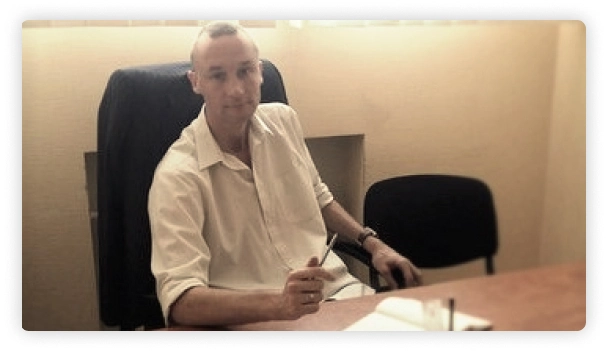
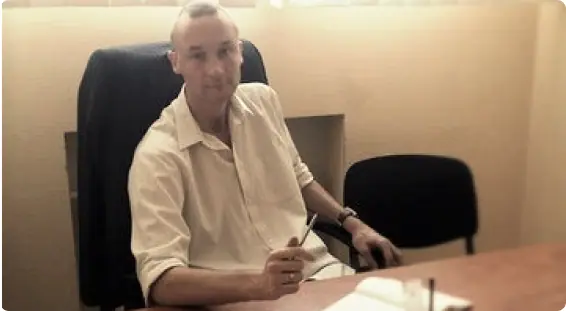
Пофиксил мелочи

diff --git a/css/main.min.css b/css/main.min.css
@@ -1,1 +1,1 @@
-:root{--main-text-color: #441a05;--color-white: #ffffff;--background-color: #003986;--hover-link-color: #ffe901;--hover-bg-color: rgba(68, 26, 5, 0.9);--cubic-bezier: cubic-bezier(0.4, 0, 0.2, 1);--about-bg-color: rgba(252, 183, 0, 0.75)}.copy{padding:10px 0;color:#fff;font-size:16px;margin-right:2px}.copy-ul{display:flex}.topNubex{display:flex;align-items:center;justify-content:center;position:fixed;right:15px;bottom:15px;width:60px;height:60px;background-color:var(--about-bg-color);fill:var(--main-text-color);transform:scale(1);transition:transform 200ms linear;border-radius:50%;cursor:pointer;z-index:2}#topNubex:hover{transform:scale(1.1)}.overlay{opacity:0;visibility:hidden;position:fixed;top:0;left:0;width:100%;height:100%;background-color:rgba(0,0,0,.5);z-index:20;transform:scale(0.7)}.modal{opacity:0;visibility:hidden;transform:translate(-50%, -50%) scale(0.2);width:100%;max-width:500px;position:fixed;top:50%;left:50%;z-index:30;box-shadow:0 3px 10px -0.5px rgba(0,0,0,.2);text-align:center;padding:30px;border-radius:3px;background-color:#fff;transition:.3s all}.modal.active{opacity:1;visibility:visible;transform:translate(-50%, -50%) scale(1);transition:transform 250ms linear}.overlay.active{opacity:1;visibility:visible;transform:scale(1);transition:opacity 250ms linear}.modal__cross{width:25px;height:25px;position:absolute;top:20px;right:20px;fill:#444;cursor:pointer}.first-header{position:relative;display:flex;justify-content:center;align-items:center;width:100%;background-color:var(--background-color)}.header-icon{fill:currentColor;margin-right:10px}.second-header{display:flex;justify-content:space-between}.header-flex{display:flex;margin-left:auto;margin-right:auto}.header-li{display:flex;padding:6px 0;color:var(--color-white)}.header-flex .header-li:not(:last-child){margin-right:30px}.header-flex a{display:flex;align-items:center;text-decoration:none;color:var(--color-white);font-weight:700;font-size:14px;line-height:1.15;letter-spacing:.035em;transition:color 250ms var(--cubic-bezier)}.mod-button:hover,.mod-button:focus{color:var(--hover-link-color)}.mod-button{display:flex;justify-content:center;align-items:center;position:absolute;cursor:pointer;top:8px;right:8px;border-radius:50%;width:30px;height:30px;padding:0;margin:0;border:1px solid rgba(0,0,0,.1);background-color:var(--color-white)}.button-link:nth-child(2) .sub-link{padding:46px 24px}.button-link:nth-child(3) .sub-link{margin-right:0}.serv-button{padding:62px 0px;max-width:450px;width:100%;color:var(--color-white);text-shadow:-4px 4px 2px rgba(0,0,0,.25);background:var(--main-text-color);box-shadow:-4px 4px 2px rgba(0,0,0,.25);border-radius:20px;transform:scale(1);transition:transform 250ms linear,box-shadow 250ms linear,background-color 250ms linear;cursor:pointer}.serv-button:hover,.serv-button:focus{background-color:var(--main-text-color);box-shadow:-8px 8px 6px rgba(0,0,0,.5);transform:scale(1.1)}.menu__button{z-index:10;display:flex;width:40px;height:40px;margin:10px 0px;padding:0;border:none;background:none}.menu__button:hover,.menu__button:focus{fill:var(--hover-text-color)}.menu__button.is-open .menu__icon{display:none}.menu__button .menu__icon--close{display:none}.menu__button.is-open .menu__icon--close{display:block}.header-flex a:hover,.header-flex a:focus{color:var(--hover-link-color)}.menu-items a:hover,.menu-items a:focus{transform:scale(1.1);box-shadow:-4px 4px 4px rgba(0,0,0,.5)}.menu{display:flex;align-items:center}.menu-link{font-weight:700;font-size:16px;line-height:18px;color:rgba(68,26,5,.75);text-shadow:0px 2px 6px rgba(0,0,0,.25);background:#fbf9f9;box-shadow:0px 4px 4px rgba(0,0,0,.25);border-radius:2px;padding:8px 36px;transform:scale(1);transition:transform 250ms var(--cubic-bezier),box-shadow 250ms var(--cubic-bezier)}.menu-box:not(:last-child){margin-right:30px}.menu-items{display:flex;align-items:center;justify-content:center}.sub-link{min-width:120px;font-weight:500;font-size:22px;line-height:1.14;text-align:center;color:#fff;text-shadow:0px 4px 4px rgba(0,0,0,.7);background-color:rgba(68,26,5,.97);border:1px solid rgba(0,0,0,.49);border-radius:20px;box-shadow:-4px 4px 2px rgba(0,0,0,.25);padding:41px 0px;margin-right:12px;cursor:pointer;transform:scale(1);transition:transform 250ms linear,box-shadow 250ms linear,background-color 250ms linear}.sub-link:hover,.sub-link:focus{background-color:var(--main-text-color);box-shadow:-8px 8px 6px rgba(0,0,0,.5);transform:scale(1.1)}.sub-flex{display:none}.mobile__menu{position:absolute;top:109px;right:0;display:flex;justify-content:center;width:100%;opacity:0;z-index:2;background-color:var(--color-white);padding:30px 15px;transform:translatey(-100%);transition:transform 150ms linear 100ms,opacity 200ms linear 100ms;pointer-events:none}.mobile__menu.is-open{pointer-events:all;opacity:1;transform:translatey(0%)}.mobile__menu-link{margin-bottom:15px}.mobile__menu-link:not(:last-child){border-right:1px solid;padding-right:10px}.mobile__menu-link:not(:first-child){padding-left:10px}.logo{display:flex}.logo-icon{margin:7px 0px;transform:rotatez(0deg);transition:transform 500ms var(--cubic-bezier)}.logo-icon:hover{transform:rotatez(360deg)}.logo-text{font-size:18px;line-height:1.15;color:var(--background-color);margin-left:11px;padding-bottom:15px;padding-top:15px;transform:scale(1);transition:transform 250ms linear}.logo-text:hover{transform:scale(1.1)}.logo-text-small{display:flex;font-size:16px;margin-left:10px;line-height:1.12;color:var(--background-color)}#contact{margin:0 0}body{font-family:"Roboto",sans-serif;font-style:normal;font-size:25px;font-weight:700;color:var(--main-text-color)}.visually-hidden{position:absolute;width:1px;height:1px;margin:-1px;border:0;padding:0;white-space:nowrap;-webkit-clip-path:inset(100%);clip-path:inset(100%);clip:rect(0 0 0 0);overflow:hidden}h1,h2,h3{margin:0;padding:0}a{display:inline-block;text-decoration:none;color:currentColor}p{padding:0;margin:0}button{padding:0;margin:0;outline:none}ul{padding:0;margin:0;list-style:none}li{margin:0;padding:0}.container{margin-left:auto;margin-right:auto;padding-left:15px;padding-right:15px}.border{border-top:1px solid var(--background-color)}.hero{max-width:1920px;margin-left:auto;margin-right:auto;text-align:center;background-position-y:center;background-size:cover;background-repeat:no-repeat;background-image:url(../img/hero-mob.jpg)}.hero-title{width:100%;font-size:30px;color:rgba(68,26,5,.8);text-shadow:0px 2px 6px rgba(0,0,0,.35);padding:70px 0px}.hero-text{font-size:30pxpx;line-height:48px;align-items:center;text-align:right;color:rgba(68,26,5,.9);text-shadow:0px 2px 16px rgba(0,0,0,.25);padding:20px 0 0 0}.about-flex{display:none}.about-list{display:flex;align-items:center}.about-list.second{align-items:end;padding-bottom:97px}.about-title{padding-top:27px;font-size:42px;line-height:1.14;-webkit-text-decoration-line:underline;text-decoration-line:underline;text-align:center;color:var(--main-text-color)}.about-text{padding:33px 30px;font-weight:500;font-size:25px;line-height:1.24;letter-spacing:-0.015em;color:var(--main-text-color)}.about{margin-right:76px;width:566px;height:311px;background:rgba(255,253,253,.99);border:1px solid var(--color-white);box-shadow:0px 0px 20px rgba(0,0,0,.25);border-radius:9px}.about:nth-child(2){margin-right:0}.about-img{box-shadow:0px 0px 10px rgba(0,0,0,.15)}.about-box{width:365px;background:var(--about-bg-color);border-radius:20px;box-shadow:0px 2px 0px rgba(0,0,0,.5)}.about-box:nth-child(2){width:428px;height:242px;margin:0px 76px}.about-box:nth-child(2) .second-title{padding:15px 140px 55px 140px;padding-bottom:55px;font-size:64px}.about-box:nth-child(2) .second-text{font-size:38px;padding:0px 20px 15px}.second-title{padding:15px 94px 30px 94px;font-size:60px;line-height:1.15;text-align:center;-webkit-text-decoration-line:underline;text-decoration-line:underline;color:var(--main-text-color);text-shadow:-2px 4px 6px rgba(0,0,0,.25)}.second-text{padding:0px 20px 15px;font-size:35px;line-height:1.15;text-align:center;color:var(--main-text-color);text-shadow:-2px 4px 6px rgba(0,0,0,.25)}.services-title{font-size:30px;line-height:37px;text-align:center;text-decoration:underline;color:var(--main-text-color);padding-top:30px}.services-subtitle{padding:20px 0;font-size:20px;line-height:25px;text-align:center;color:var(--main-text-color)}.card-text{display:inline-flex;align-items:center;position:absolute;margin:0;padding:0px 24px;width:100%;height:100%;font-size:18px;line-height:29px;text-align:center;color:var(--color-white);transform:translateY(100%)}.services-cont{padding:0px 15px}.services-flex{display:block}.footer{display:flex;justify-content:space-between;align-items:center}.address{font-size:22px;line-height:27px;font-style:normal;font-weight:700;color:var(--main-text-color)}.address a{transform:scale(1);transition:color 150ms linear,transform 150ms linear}.address a:hover{color:var(--hover-link-color);transform:scale(1.03)}.contact{padding-bottom:20px;font-size:30px;line-height:37px;text-align:center;text-decoration:underline;color:var(--main-text-color);padding-top:30px}.map{padding-top:25px;width:100%}.price-title{padding:30px 0;text-align:center}.price-text,.about-text{padding:0px 40px;font-weight:500;font-size:20px;line-height:1.8;letter-spacing:-0.015em;color:var(--main-text-color)}.cap{padding-top:10px;padding-bottom:10px;height:10%;font-size:25px;text-align:left;text-decoration:underline}.iksweb th{font-weight:700;font-size:25px;text-align:left;color:var(--main-text-color);background-color:var(--color-white)}.iksweb{display:flex;text-decoration:none;padding-top:10px;padding-bottom:50px;width:70%;text-align:left;font-size:18px;color:var(--main-text-color);margin-left:auto;margin-right:auto}.iksweb td:nth-child(2n){width:150px}.iksweb tr{cursor:default;transform:scale(1);transition:transform 200ms linear,background-color 300ms linear}.iksweb td .iksweb th{padding:10px 5px;line-height:13px}.iksweb tr:hover{background-color:rgba(189,185,185,.163);transform:scale(1.1)}@media screen and (min-width: 480px){.container{width:480px}}@media screen and (min-width: 768px){.container{width:768px}}@media screen and (min-width: 1366px){.container{width:1366px}}@media screen and (max-width: 767px){.about-text{padding:0}.about-img{display:none}.iksweb{display:initial;font-size:14px}.iksweb th{font-size:20px}.menu{display:none}.price-text{display:none}.second-header{align-items:center}.services:not(:last-child){margin-bottom:10px}}@media screen and (max-width: 1365px){.menu{margin-left:auto}.menu-link.menu-link--hiden{display:none}.sub-menu{display:none}.hero-title{max-width:460px;width:100%;font-size:30px;margin-left:auto;margin-right:100px}.second-header{align-items:center}.logo-icon{width:50px;height:60px}.logo-text-small{font-size:12px}.menu-box:not(:last-child){margin-right:15px}.menu-link{font-size:14px;line-height:16px;padding:8px 18px}.services:nth-child(2n){margin-right:0}.qr{display:none}.price-text,.about-text{font-size:16px;line-height:1.5}}@media screen and (min-width: 768px){.mobile__menu{justify-content:flex-end}.services:nth-last-child(-n+2){margin-bottom:0}.hero{background-image:url(../img/hero-tab.jpg)}.sub-flex{display:flex;align-items:center;justify-content:center}.services-flex{display:flex;flex-wrap:wrap;padding-bottom:30px;justify-content:center}.services{width:calc((100% - 60px)/2);margin-right:30px;margin-bottom:60px}.serv-button{padding:45px 0px;font-size:18px}}@media screen and (min-width: 1366px){.menu__button{display:none}.mobile__menu{display:none}.hero{background-image:url(../img/hero2.jpg)}.hero-title{width:700px;font-size:40px;line-height:1.2;margin-left:auto;margin-right:23px;padding:95px 0px}.hero-text{font-size:42px;padding:50px 38px}.sub-flex{justify-content:space-between}.sub-menu{display:flex;align-items:center;padding-left:24px}.about-flex{display:flex;justify-content:center;padding-top:39px}.services-flex{display:flex;flex-wrap:wrap;padding-bottom:102px}.services-title{font-size:50px;line-height:57px;text-align:center;text-decoration:underline;color:var(--main-text-color)}.services-subtitle{padding:43px 0;font-size:25px;line-height:29px;text-align:center;color:var(--main-text-color)}.services-cont{padding:0px 83px}.services{width:calc((100% - 120px)/3);margin-right:60px;margin-bottom:90px}.services:nth-child(3n){margin-right:0}.services:nth-last-child(-n+3){margin-bottom:0}.serv-button{padding:62px 0px;width:350px;font-size:25px;color:var(--color-white);text-shadow:-4px 4px 2px rgba(0,0,0,.25);background:var(--main-text-color);box-shadow:-4px 4px 2px rgba(0,0,0,.25);border-radius:20px;transform:scale(1);transition:transform 250ms linear,box-shadow 250ms linear,background-color 250ms linear;cursor:pointer}.qr{bottom:40px;right:40px}.contact{padding-bottom:20px;font-size:45px;line-height:52px;text-align:center;color:var(--main-text-color)}.logo-text{width:320px;font-size:26px;line-height:1.15;color:var(--background-color);margin-left:11px;padding-bottom:15px;padding-top:15px;transform:scale(1);transition:transform 250ms linear}.header-flex a{font-size:18px}.address{font-size:25px;line-height:29px}.price-text,.about-text{font-size:22px}}/*# sourceMappingURL=main.min.css.map */
+:root{--main-text-color: #441a05;--color-white: #ffffff;--background-color: #003986;--hover-link-color: #ffe901;--hover-bg-color: rgba(68, 26, 5, 0.9);--cubic-bezier: cubic-bezier(0.4, 0, 0.2, 1);--about-bg-color: rgba(252, 183, 0, 0.75)}.copy{padding:10px 0;color:#fff;font-size:16px;margin-right:2px}.copy-ul{display:flex}.topNubex{display:flex;align-items:center;justify-content:center;position:fixed;right:15px;bottom:15px;width:60px;height:60px;background-color:var(--about-bg-color);fill:var(--main-text-color);transform:scale(1);transition:transform 200ms linear;border-radius:50%;cursor:pointer;z-index:2}#topNubex:hover{transform:scale(1.1)}.overlay{opacity:0;visibility:hidden;position:fixed;top:0;left:0;width:100%;height:100%;background-color:rgba(0,0,0,.5);z-index:20;transform:scale(0.7)}.modal{opacity:0;visibility:hidden;transform:translate(-50%, -50%) scale(0.2);width:100%;max-width:500px;position:fixed;top:50%;left:50%;z-index:30;box-shadow:0 3px 10px -0.5px rgba(0,0,0,.2);text-align:center;padding:30px;border-radius:3px;background-color:#fff;transition:.3s all}.modal.active{opacity:1;visibility:visible;transform:translate(-50%, -50%) scale(1);transition:transform 250ms linear}.overlay.active{opacity:1;visibility:visible;transform:scale(1);transition:opacity 250ms linear}.modal__cross{width:25px;height:25px;position:absolute;top:20px;right:20px;fill:#444;cursor:pointer}.first-header{position:relative;display:flex;justify-content:center;align-items:center;width:100%;background-color:var(--background-color)}.header-icon{fill:currentColor;margin-right:10px}.second-header{display:flex;justify-content:space-between}.header-flex{display:flex;margin-left:auto;margin-right:auto}.header-li{display:flex;padding:6px 0;color:var(--color-white)}.header-flex .header-li:not(:last-child){margin-right:30px}.header-flex a{display:flex;align-items:center;text-decoration:none;color:var(--color-white);font-weight:700;font-size:14px;line-height:1.15;letter-spacing:.035em;transition:color 250ms var(--cubic-bezier)}.mod-button:hover,.mod-button:focus{color:var(--hover-link-color)}.mod-button{display:flex;justify-content:center;align-items:center;position:absolute;cursor:pointer;top:8px;right:8px;border-radius:50%;width:30px;height:30px;padding:0;margin:0;border:1px solid rgba(0,0,0,.1);background-color:var(--color-white)}.button-link:nth-child(2) .sub-link{padding:46px 24px}.button-link:nth-child(3) .sub-link{margin-right:0}.serv-button{padding:62px 0px;max-width:450px;width:100%;color:var(--color-white);text-shadow:-4px 4px 2px rgba(0,0,0,.25);background:var(--main-text-color);box-shadow:-4px 4px 2px rgba(0,0,0,.25);border-radius:20px;transform:scale(1);transition:transform 250ms linear,box-shadow 250ms linear,background-color 250ms linear;cursor:pointer}.serv-button:hover,.serv-button:focus{background-color:var(--main-text-color);box-shadow:-8px 8px 6px rgba(0,0,0,.5);transform:scale(1.1)}.menu__button{z-index:10;display:flex;width:40px;height:40px;margin:10px 0px;padding:0;border:none;background:none}.menu__button:hover,.menu__button:focus{fill:var(--hover-text-color)}.menu__button.is-open .menu__icon{display:none}.menu__button .menu__icon--close{display:none}.menu__button.is-open .menu__icon--close{display:block}.header-flex a:hover,.header-flex a:focus{color:var(--hover-link-color)}.menu-items a:hover,.menu-items a:focus{transform:scale(1.1);box-shadow:-4px 4px 4px rgba(0,0,0,.5)}.menu{display:flex;align-items:center}.menu-link{font-weight:700;font-size:16px;line-height:18px;color:rgba(68,26,5,.75);text-shadow:0px 2px 6px rgba(0,0,0,.25);background:#fbf9f9;box-shadow:0px 4px 4px rgba(0,0,0,.25);border-radius:2px;padding:8px 36px;transform:scale(1);transition:transform 250ms var(--cubic-bezier),box-shadow 250ms var(--cubic-bezier)}.menu-box:not(:last-child){margin-right:30px}.menu-items{display:flex;align-items:center;justify-content:center}.sub-link{min-width:120px;font-weight:500;font-size:22px;line-height:1.14;text-align:center;color:#fff;text-shadow:0px 4px 4px rgba(0,0,0,.7);background-color:rgba(68,26,5,.97);border:1px solid rgba(0,0,0,.49);border-radius:20px;box-shadow:-4px 4px 2px rgba(0,0,0,.25);padding:41px 0px;margin-right:12px;cursor:pointer;transform:scale(1);transition:transform 250ms linear,box-shadow 250ms linear,background-color 250ms linear}.sub-link:hover,.sub-link:focus{background-color:var(--main-text-color);box-shadow:-8px 8px 6px rgba(0,0,0,.5);transform:scale(1.1)}.sub-flex{display:none}.mobile__menu{position:absolute;top:109px;right:0;display:flex;justify-content:center;width:100%;opacity:0;z-index:2;background-color:var(--color-white);padding:30px 15px;transform:translatey(-100%);transition:transform 150ms linear 100ms,opacity 200ms linear 100ms;pointer-events:none}.mobile__menu.is-open{pointer-events:all;opacity:1;transform:translatey(0%)}.mobile__menu-link{margin-bottom:15px}.mobile__menu-link:not(:last-child){border-right:1px solid;padding-right:10px}.mobile__menu-link:not(:first-child){padding-left:10px}.logo{display:flex}.logo-icon{margin:7px 0px;transform:rotatez(0deg);transition:transform 500ms var(--cubic-bezier)}.logo-icon:hover{transform:rotatez(360deg)}.logo-text{font-size:18px;line-height:1.15;color:var(--background-color);margin-left:11px;padding-bottom:15px;padding-top:15px;transform:scale(1);transition:transform 250ms linear}.logo-text:hover{transform:scale(1.1)}.logo-text-small{display:flex;font-size:16px;margin-left:10px;line-height:1.12;color:var(--background-color)}#contact{margin:0 0}body{font-family:"Roboto",sans-serif;font-style:normal;font-size:25px;font-weight:700;color:var(--main-text-color)}img{display:block}.visually-hidden{position:absolute;width:1px;height:1px;margin:-1px;border:0;padding:0;white-space:nowrap;-webkit-clip-path:inset(100%);clip-path:inset(100%);clip:rect(0 0 0 0);overflow:hidden}h1,h2,h3{margin:0;padding:0}a{display:inline-block;text-decoration:none;color:currentColor}p{padding:0;margin:0}button{padding:0;margin:0;outline:none}ul{padding:0;margin:0;list-style:none}li{margin:0;padding:0}.container{margin-left:auto;margin-right:auto;padding-left:15px;padding-right:15px}.border{border-top:1px solid var(--background-color)}.hero{max-width:1920px;margin-left:auto;margin-right:auto;text-align:center;background-position-y:center;background-size:cover;background-repeat:no-repeat;background-image:url(../img/hero-mob.jpg)}.hero-title{width:100%;font-size:30px;color:rgba(68,26,5,.8);text-shadow:0px 2px 6px rgba(0,0,0,.35);padding:70px 0px}.hero-text{font-size:30pxpx;line-height:48px;align-items:center;text-align:right;color:rgba(68,26,5,.9);text-shadow:0px 2px 16px rgba(0,0,0,.25);padding:20px 0 0 0}.about-flex{display:none}.about-list{display:flex;align-items:center}.about-list.second{align-items:end;padding-bottom:97px}.about-title{padding-top:27px;font-size:42px;line-height:1.14;-webkit-text-decoration-line:underline;text-decoration-line:underline;text-align:center;color:var(--main-text-color)}.about-text--mini{padding:33px 30px;font-weight:500;font-size:24px;line-height:1.4;letter-spacing:-0.015em;color:var(--main-text-color)}.about{margin-right:60px;width:566px;height:311px;background:rgba(255,253,253,.99);border:1px solid var(--color-white);box-shadow:0px 0px 20px rgba(0,0,0,.25);border-radius:5px}.about:nth-child(2){margin-right:0;border:none;background:none;box-shadow:none}.about-img{box-shadow:0px 0px 20px rgba(0,0,0,.15)}.about-box{width:365px;background:var(--about-bg-color);border-radius:20px;box-shadow:0px 2px 0px rgba(0,0,0,.5)}.about-box:nth-child(2){width:428px;height:242px;margin:0px 76px}.about-box:nth-child(2) .second-title{padding:15px 140px 55px 140px;padding-bottom:55px;font-size:64px}.about-box:nth-child(2) .second-text{font-size:38px;padding:0px 20px 15px}.about-flex-cont{display:flex}.second-title{padding:15px 94px 30px 94px;font-size:60px;line-height:1.15;text-align:center;-webkit-text-decoration-line:underline;text-decoration-line:underline;color:var(--main-text-color);text-shadow:-2px 4px 6px rgba(0,0,0,.25)}.second-text{padding:0px 20px 15px;font-size:35px;line-height:1.15;text-align:center;color:var(--main-text-color);text-shadow:-2px 4px 6px rgba(0,0,0,.25)}.services-title{font-size:30px;line-height:37px;text-align:center;text-decoration:underline;color:var(--main-text-color);padding-top:30px}.services-subtitle{padding:20px 0;font-size:20px;line-height:25px;text-align:center;color:var(--main-text-color)}.card-text{display:inline-flex;align-items:center;position:absolute;margin:0;padding:0px 24px;width:100%;height:100%;font-size:18px;line-height:29px;text-align:center;color:var(--color-white);transform:translateY(100%)}.services-cont{padding:0px 15px}.services-flex{display:block}.footer{display:flex;justify-content:space-between;align-items:center}.address{font-size:22px;line-height:27px;font-style:normal;font-weight:700;color:var(--main-text-color)}.address a{transform:scale(1);transition:color 150ms linear,transform 150ms linear}.address a:hover{color:var(--hover-link-color);transform:scale(1.03)}.contact{padding-bottom:20px;font-size:30px;line-height:37px;text-align:center;text-decoration:underline;color:var(--main-text-color);padding-top:30px}.map{padding-top:25px;width:100%}.price-title{padding:30px 0;text-align:center}.price-text,.about-text{padding:0px 40px;font-weight:500;font-size:20px;line-height:1.5;letter-spacing:-0.015em;color:var(--main-text-color)}.cap{padding-top:10px;padding-bottom:10px;height:10%;font-size:25px;text-align:left;text-decoration:underline}.iksweb th{font-weight:700;font-size:25px;text-align:left;color:var(--main-text-color);background-color:var(--color-white)}.iksweb{display:flex;text-decoration:none;padding-top:10px;padding-bottom:50px;width:70%;text-align:left;font-size:20px;color:var(--main-text-color);margin-left:auto;margin-right:auto}.iksweb td:nth-child(2n){width:150px}.iksweb tr{cursor:default;transform:scale(1);transition:transform 200ms linear,background-color 300ms linear}.iksweb td .iksweb th{padding:10px 5px;line-height:13px}.iksweb tr:hover{background-color:rgba(189,185,185,.163);transform:scale(1.1)}@media screen and (min-width: 480px){.container{width:480px}}@media screen and (min-width: 768px){.container{width:768px}}@media screen and (min-width: 1366px){.container{width:1366px}}@media screen and (max-width: 767px){.about-text{padding:0}.about-img{display:none}.iksweb{display:initial;font-size:14px}.iksweb th{font-size:20px}.menu{display:none}.price-text{display:none}.second-header{align-items:center}.services:not(:last-child){margin-bottom:10px}}@media screen and (max-width: 1365px){.menu{margin-left:auto}.menu-link.menu-link--hiden{display:none}.sub-menu{display:none}.hero-title{max-width:460px;width:100%;font-size:30px;margin-left:auto;margin-right:100px}.second-header{align-items:center}.logo-icon{width:50px;height:60px}.logo-text-small{font-size:12px}.menu-box:not(:last-child){margin-right:15px}.menu-link{font-size:14px;line-height:16px;padding:8px 18px}.services:nth-child(2n){margin-right:0}.qr{display:none}.price-text,.about-text{font-size:16px;line-height:1.5}}@media screen and (min-width: 768px){.mobile__menu{justify-content:flex-end}.services:nth-last-child(-n+2){margin-bottom:0}.hero{background-image:url(../img/hero-tab.jpg)}.sub-flex{display:flex;align-items:center;justify-content:center}.services-flex{display:flex;flex-wrap:wrap;padding-bottom:30px;justify-content:center}.services{width:calc((100% - 60px)/2);margin-right:30px;margin-bottom:60px}.serv-button{padding:45px 0px;font-size:18px}.iksweb{font-size:18px}}@media screen and (min-width: 1366px){.menu__button{display:none}.mobile__menu{display:none}.hero{background-image:url(../img/hero2.jpg)}.hero-title{width:700px;font-size:40px;line-height:1.2;margin-left:auto;margin-right:23px;padding:95px 0px}.hero-text{font-size:42px;padding:50px 38px}.sub-flex{justify-content:space-between}.sub-menu{display:flex;align-items:center;padding-left:24px}.about-flex{display:flex;justify-content:center;padding-top:39px}.services-flex{display:flex;flex-wrap:wrap;padding-bottom:102px}.services-title{font-size:50px;line-height:57px;text-align:center;text-decoration:underline;color:var(--main-text-color)}.services-subtitle{padding:43px 0;font-size:25px;line-height:29px;text-align:center;color:var(--main-text-color)}.services-cont{padding:0px 83px}.services{width:calc((100% - 120px)/3);margin-right:60px;margin-bottom:90px}.services:nth-child(3n){margin-right:0}.services:nth-last-child(-n+3){margin-bottom:0}.serv-button{padding:62px 0px;width:350px;font-size:25px;color:var(--color-white);text-shadow:-4px 4px 2px rgba(0,0,0,.25);background:var(--main-text-color);box-shadow:-4px 4px 2px rgba(0,0,0,.25);border-radius:20px;transform:scale(1);transition:transform 250ms linear,box-shadow 250ms linear,background-color 250ms linear;cursor:pointer}.qr{bottom:40px;right:40px}.contact{padding-bottom:20px;font-size:45px;line-height:52px;text-align:center;color:var(--main-text-color)}.logo-text{width:320px;font-size:26px;line-height:1.15;color:var(--background-color);margin-left:11px;padding-bottom:15px;padding-top:15px;transform:scale(1);transition:transform 250ms linear}.header-flex a{font-size:18px}.address{font-size:25px;line-height:29px}.price-text,.about-text{font-size:22px}.iksweb{font-size:20px}}/*# sourceMappingURL=main.min.css.map */

diff --git a/about.html b/about.html
@@ -111,22 +111,22 @@
           <p class="about-text">
                             <img class="about-img"
                 src="./img/oleg2.jpg"
-                  width="271"
-                  alt=""
+                  width="260"
+                  alt="Фото Адвоката"
                   align="right"
                   hspace="10"
                   vspace="10"
                 />Прохоров Олег Олександрович, 1982 року народження. Освіта
                 – Київський інститут народного господарства ім. Д. С.
                 Коротченко (сьогодні – Київський національний економічний
-                університет ім. В. Гетьмана), магістр права.</br>
+                університет ім. В. Гетьмана), магістр права.
                 Сімнадцятирічний юридичний досвід дозволяє вирішувати навіть найскладніші питання
                 та знаходити вихід із заплутаних ситуацій. У 2008 році
                 отримав статус адвоката та свідоцтво про право займатися
-                адвокатською діяльністю. З 2013 року працюю на посаді голови
-                Оболонської колегії адвокатів м. Києва.</br> Маю великий досвід у
+                адвокатською діяльністю.</br> З 2013 року працюю на посаді голови
+                Оболонської колегії адвокатів м. Києва. Маю великий досвід у
                 супроводі справ різних галузей права у судах будь-якої
-                інстанції. Адвокатська практика дозволила мені накопичити
+                інстанції.</br> Адвокатська практика дозволила мені накопичити
                 унікальний досвід у складних юридичних ситуаціях у
                 кримінальних, цивільних, житлових, сімейних та
                 адміністративних справах. Я здійснюю кваліфікований захист у

diff --git a/css/main.css b/css/main.css
@@ -383,6 +383,10 @@ body {
   color: var(--main-text-color);
 }
 
+img {
+  display: block;
+}
+
 .visually-hidden {
   position: absolute;
   width: 1px;
@@ -496,31 +500,34 @@ li {
   color: var(--main-text-color);
 }
 
-.about-text {
+.about-text--mini {
   padding: 33px 30px;
   font-weight: 500;
-  font-size: 25px;
-  line-height: 1.24;
+  font-size: 24px;
+  line-height: 1.4;
   letter-spacing: -0.015em;
   color: var(--main-text-color);
 }
 
 .about {
-  margin-right: 76px;
+  margin-right: 60px;
   width: 566px;
   height: 311px;
   background: rgba(255, 253, 253, 0.99);
   border: 1px solid var(--color-white);
   box-shadow: 0px 0px 20px rgba(0, 0, 0, 0.25);
-  border-radius: 9px;
+  border-radius: 5px;
 }
 
 .about:nth-child(2) {
   margin-right: 0;
+  border: none;
+  background: none;
+  box-shadow: none;
 }
 
 .about-img {
-  box-shadow: 0px 0px 10px rgba(0, 0, 0, 0.15);
+  box-shadow: 0px 0px 20px rgba(0, 0, 0, 0.15);
 }
 
 .about-box {
@@ -545,6 +552,10 @@ li {
 .about-box:nth-child(2) .second-text {
   font-size: 38px;
   padding: 0px 20px 15px;
+}
+
+.about-flex-cont {
+  display: flex;
 }
 
 .second-title {
@@ -659,7 +670,7 @@ li {
   padding: 0px 40px;
   font-weight: 500;
   font-size: 20px;
-  line-height: 1.8;
+  line-height: 1.5;
   letter-spacing: -0.015em;
   color: var(--main-text-color);
 }
@@ -688,7 +699,7 @@ li {
   padding-bottom: 50px;
   width: 70%;
   text-align: left;
-  font-size: 18px;
+  font-size: 20px;
   color: var(--main-text-color);
   margin-left: auto;
   margin-right: auto;
@@ -857,6 +868,10 @@ li {
     padding: 45px 0px;
     font-size: 18px;
   }
+
+  .iksweb {
+    font-size: 18px;
+  }
 }
 @media screen and (min-width: 1366px) {
   .menu__button {
@@ -992,5 +1007,9 @@ li {
   .price-text,
 .about-text {
     font-size: 22px;
+  }
+
+  .iksweb {
+    font-size: 20px;
   }
 }/*# sourceMappingURL=main.css.map */

diff --git a/index.html b/index.html
@@ -143,7 +143,7 @@
               <ul class="about-list">
                 <li class="about">
                   <h2 class="about-title">Давайте знайомитись</h2>
-                  <p class="about-text">
+                  <p class="about-text--mini">
                     Мене звуть Прохоров Олег Олександрович, більше 13 років,
                     успішно займаюся адвокатською діяльністю. Більш детально ви
                     можете ознайомитись з моєю біографією у розділі
@@ -154,15 +154,18 @@
                     >
                   </p>
                 </li>
-                <li class="">
-                  <img
-                    srcset="./img/oleg.webp 1x, ./img/oleg2x.webp 2x"
-                    class="about-img"
-                    src="./img/oleg.webp"
-                    width="566px"
-                    height="311px"
-                    alt=""
-                  />
+                <li class="about">
+                  <div>
+                    <img
+                      class=""
+                      srcset="./img/oleg.webp 1x, ./img/oleg2x.webp 2x"
+                      src="./img/oleg.webp"
+                      width="566px"
+                      height="311px"
+                      sizes="(min-width:1366px) 100w"
+                      alt=""
+                    />
+                  </div>
                 </li>
               </ul>
             </div>

diff --git a/sass/components/_about.scss b/sass/components/_about.scss
@@ -17,29 +17,41 @@
     text-align: center;
     color: var(--main-text-color);
   }
-  .about-text {
-    padding: 33px 30px;
-    font-weight: 500;
-    font-size: 25px;
-    line-height: 1.24;
-    letter-spacing: -0.015em;
+  // .about-text {
+  //   padding: 33px 30px;
+  //   font-weight: 500;
+  //   font-size: 25px;
+  //   line-height: 1.24;
+  //   letter-spacing: -0.015em;
   
-    color: var(--main-text-color);
+  //   color: var(--main-text-color);
+  // }
+  .about-text--mini{
+    padding: 33px 30px;
+      font-weight: 500;
+      font-size: 24px;
+      line-height: 1.4;
+      letter-spacing: -0.015em;
+    
+      color: var(--main-text-color);
   }
   .about {
-    margin-right: 76px;
+    margin-right: 60px;
     width: 566px;
     height: 311px;
     background: rgba(255, 253, 253, 0.99);
     border: 1px solid var(--color-white);
     box-shadow: 0px 0px 20px rgba(0, 0, 0, 0.25);
-    border-radius: 9px;
+    border-radius: 5px;
   }
   .about:nth-child(2) {
     margin-right: 0;
+    border: none;
+    background: none;
+    box-shadow: none;
   }
   .about-img {
-    box-shadow: 0px 0px 10px rgba(0, 0, 0, 0.15);
+    box-shadow: 0px 0px 20px rgba(0, 0, 0, 0.15);
     
   }
   
@@ -64,3 +76,6 @@
     font-size: 38px;
     padding: 0px 20px 15px;
   }
+    .about-flex-cont{
+      display: flex;
+    }

diff --git a/sass/components/_price.scss b/sass/components/_price.scss
@@ -7,7 +7,7 @@
     padding: 0px 40px;
     font-weight: 500;
     font-size: 20px;
-    line-height: 1.8;
+    line-height: 1.5;
     letter-spacing: -0.015em;
     color: var(--main-text-color);
   }
@@ -34,7 +34,7 @@
     padding-bottom: 50px;
     width: 70%;
     text-align: left;
-    font-size: 18px;
+    font-size: 20px;
     color: var(--main-text-color);
   
     margin-left: auto;

diff --git a/sass/components/_media.scss b/sass/components/_media.scss
@@ -136,7 +136,9 @@
        font-size: 18px;
        
    }
-  
+   .iksweb {
+              font-size: 18px;
+   }
 }
 
 
@@ -266,4 +268,7 @@
 .about-text{
     font-size: 22px;
 }
+ .iksweb {
+     font-size: 20px;
+ }
 }

diff --git a/sass/components/_body.scss b/sass/components/_body.scss
@@ -9,6 +9,9 @@
     color: var(--main-text-color);
     
   }
+  img{
+    display: block;
+  }
   .visually-hidden {
     position: absolute;
     width: 1px;
